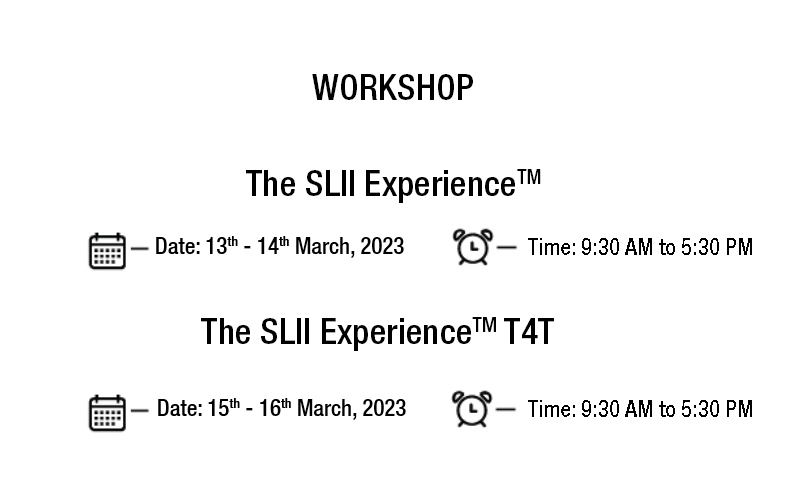
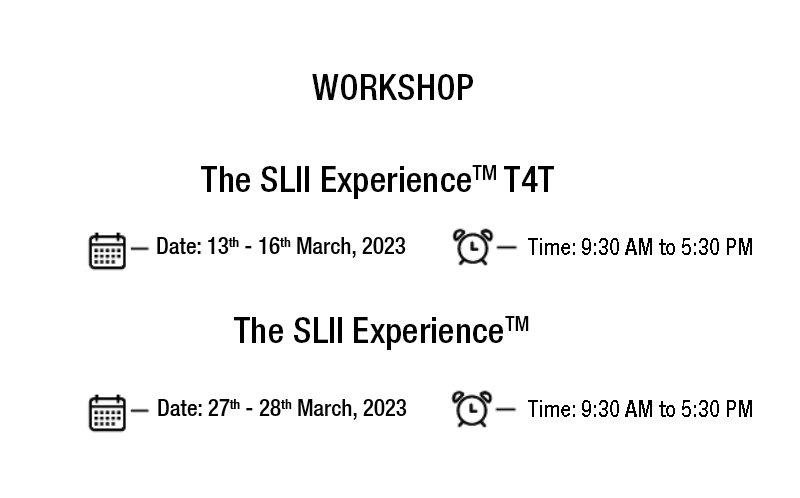
ch

diff --git a/pages/events-workshops/virtual-public-workshop.js b/pages/events-workshops/virtual-public-workshop.js
@@ -108,9 +108,9 @@ export default function VirtualPublicWorkshop() {
                                  <div className="form-group">
                                     <select name="leadsquared_mx_Showed_Interest_in" className="form-control" required>
                                        <option value="">Pick up any Slot*</option>
-                                       <option value="Building Trust - Virtual - February 22nd, 2023">Building Trust - Virtual - February 22nd, 2023</option>
-                                       <option value="The SLII Experience™ - Virtual March 13th - 14th, 2023">The SLII Experience™ - Virtual March 13th - 14th, 2023</option>
-                                       <option value="The SLII Experience™ T4T March 15th - 16th, 2023">The SLII Experience™ T4T March 13th - 16th, 2023</option>
+                                       <option value="Building Trust - Virtual - February 22nd, 2023">Building Trust - Virtual - February 22nd, 2023</option>                                       
+                                       <option value="The SLII Experience™ T4T March 13th - 16th, 2023">The SLII Experience™ T4T March 13th - 16th, 2023</option>
+                                       <option value="The SLII Experience™ - Virtual March 27th - 28th, 2023">The SLII Experience™ - Virtual March 27th - 28th, 2023</option>
                                        <option value="Blanchard Management Essentials - Virtual March 21st, 2023">Blanchard Management Essentials - Virtual March 21st, 2023</option>
                                        <option value="The SLII Experience™ March 27th, 2023">The SLII Experience™ March 27th, 2023</option>
 
@@ -175,8 +175,8 @@ export default function VirtualPublicWorkshop() {
                            <div className="col-sm-4">
                               <div className="choose-card">
                                  <img src="/assets/img/workshopformain1.jpg" alt="Images" />
-                                 <h3 className="ptt10 mbb-0">The SLII Experience™ - Virtual</h3>
-                                 <p> March 13th - 14th, 2023</p>
+                                 <h3>The SLII Experience™ T4T</h3>
+                                 <p>March 13th - 16th, 2023</p>
                                  <div className='row eventsbottomarea2 text-center'>
                                     <div className='col-sm-12'>
                                        <a href="/events-workshops/virtual-public-workshop#REQUEST" className="default-btn-two">REQUEST INFO<i className="bx bx-right-arrow-alt"></i></a>
@@ -188,8 +188,8 @@ export default function VirtualPublicWorkshop() {
                            <div className="col-sm-4">
                               <div className="choose-card">
                                  <img src="/assets/img/workshopformain1.jpg" alt="Images" />
-                                 <h3>The SLII Experience™ T4T</h3>
-                                 <p>March 15th - 16th, 2023</p>
+                                 <h3 className="ptt10 mbb-0">The SLII Experience™ - Virtual</h3>
+                                 <p> March 27th - 28th, 2023</p>
                                  <div className='row eventsbottomarea2 text-center'>
                                     <div className='col-sm-12'>
                                        <a href="/events-workshops/virtual-public-workshop#REQUEST" className="default-btn-two">REQUEST INFO<i className="bx bx-right-arrow-alt"></i></a>

diff --git a/pages/events-workshops/index.js b/pages/events-workshops/index.js
@@ -47,12 +47,13 @@ export default function EventsAndWorkshop() {
                                     </div>
                                  </div>
                               </div>
-                           </div>
+                           </div>                           
+
                            <div className="col-sm-4">
                               <div className="choose-card">
                                  <img src="/assets/img/workshopformain1.jpg" alt="Images" />
-                                 <h3 className="ptt10 mbb-0">The SLII Experience™ - Virtual</h3>
-                                 <p> March 13th - 14th, 2023</p>
+                                 <h3>The SLII Experience™ T4T</h3>
+                                 <p>March 13th - 16th, 2023</p>
                                  <div className='row eventsbottomarea2 text-center'>
                                     <div className='col-sm-12'>
                                        <a href="/events-workshops/virtual-public-workshop#REQUEST" className="default-btn-two">REQUEST INFO<i className="bx bx-right-arrow-alt"></i></a>
@@ -64,8 +65,8 @@ export default function EventsAndWorkshop() {
                            <div className="col-sm-4">
                               <div className="choose-card">
                                  <img src="/assets/img/workshopformain1.jpg" alt="Images" />
-                                 <h3>The SLII Experience™ T4T</h3>
-                                 <p>March 15th - 16th, 2023</p>
+                                 <h3 className="ptt10 mbb-0">The SLII Experience™ - Virtual</h3>
+                                 <p> March 27th - 28th, 2023</p>
                                  <div className='row eventsbottomarea2 text-center'>
                                     <div className='col-sm-12'>
                                        <a href="/events-workshops/virtual-public-workshop#REQUEST" className="default-btn-two">REQUEST INFO<i className="bx bx-right-arrow-alt"></i></a>

diff --git a/pages/forms/change-scan-assessment.js b/pages/forms/change-scan-assessment.js
@@ -256,7 +256,7 @@ if (typeof window !== "undefined") {
                                     </div>
                                  </div>
                                  <div className="resultd">
-                                    <span id="result1"></span>
+                                    <span id="result1">kkjkkk</span>
                                  </div>
 
                                  <div className="headh">
